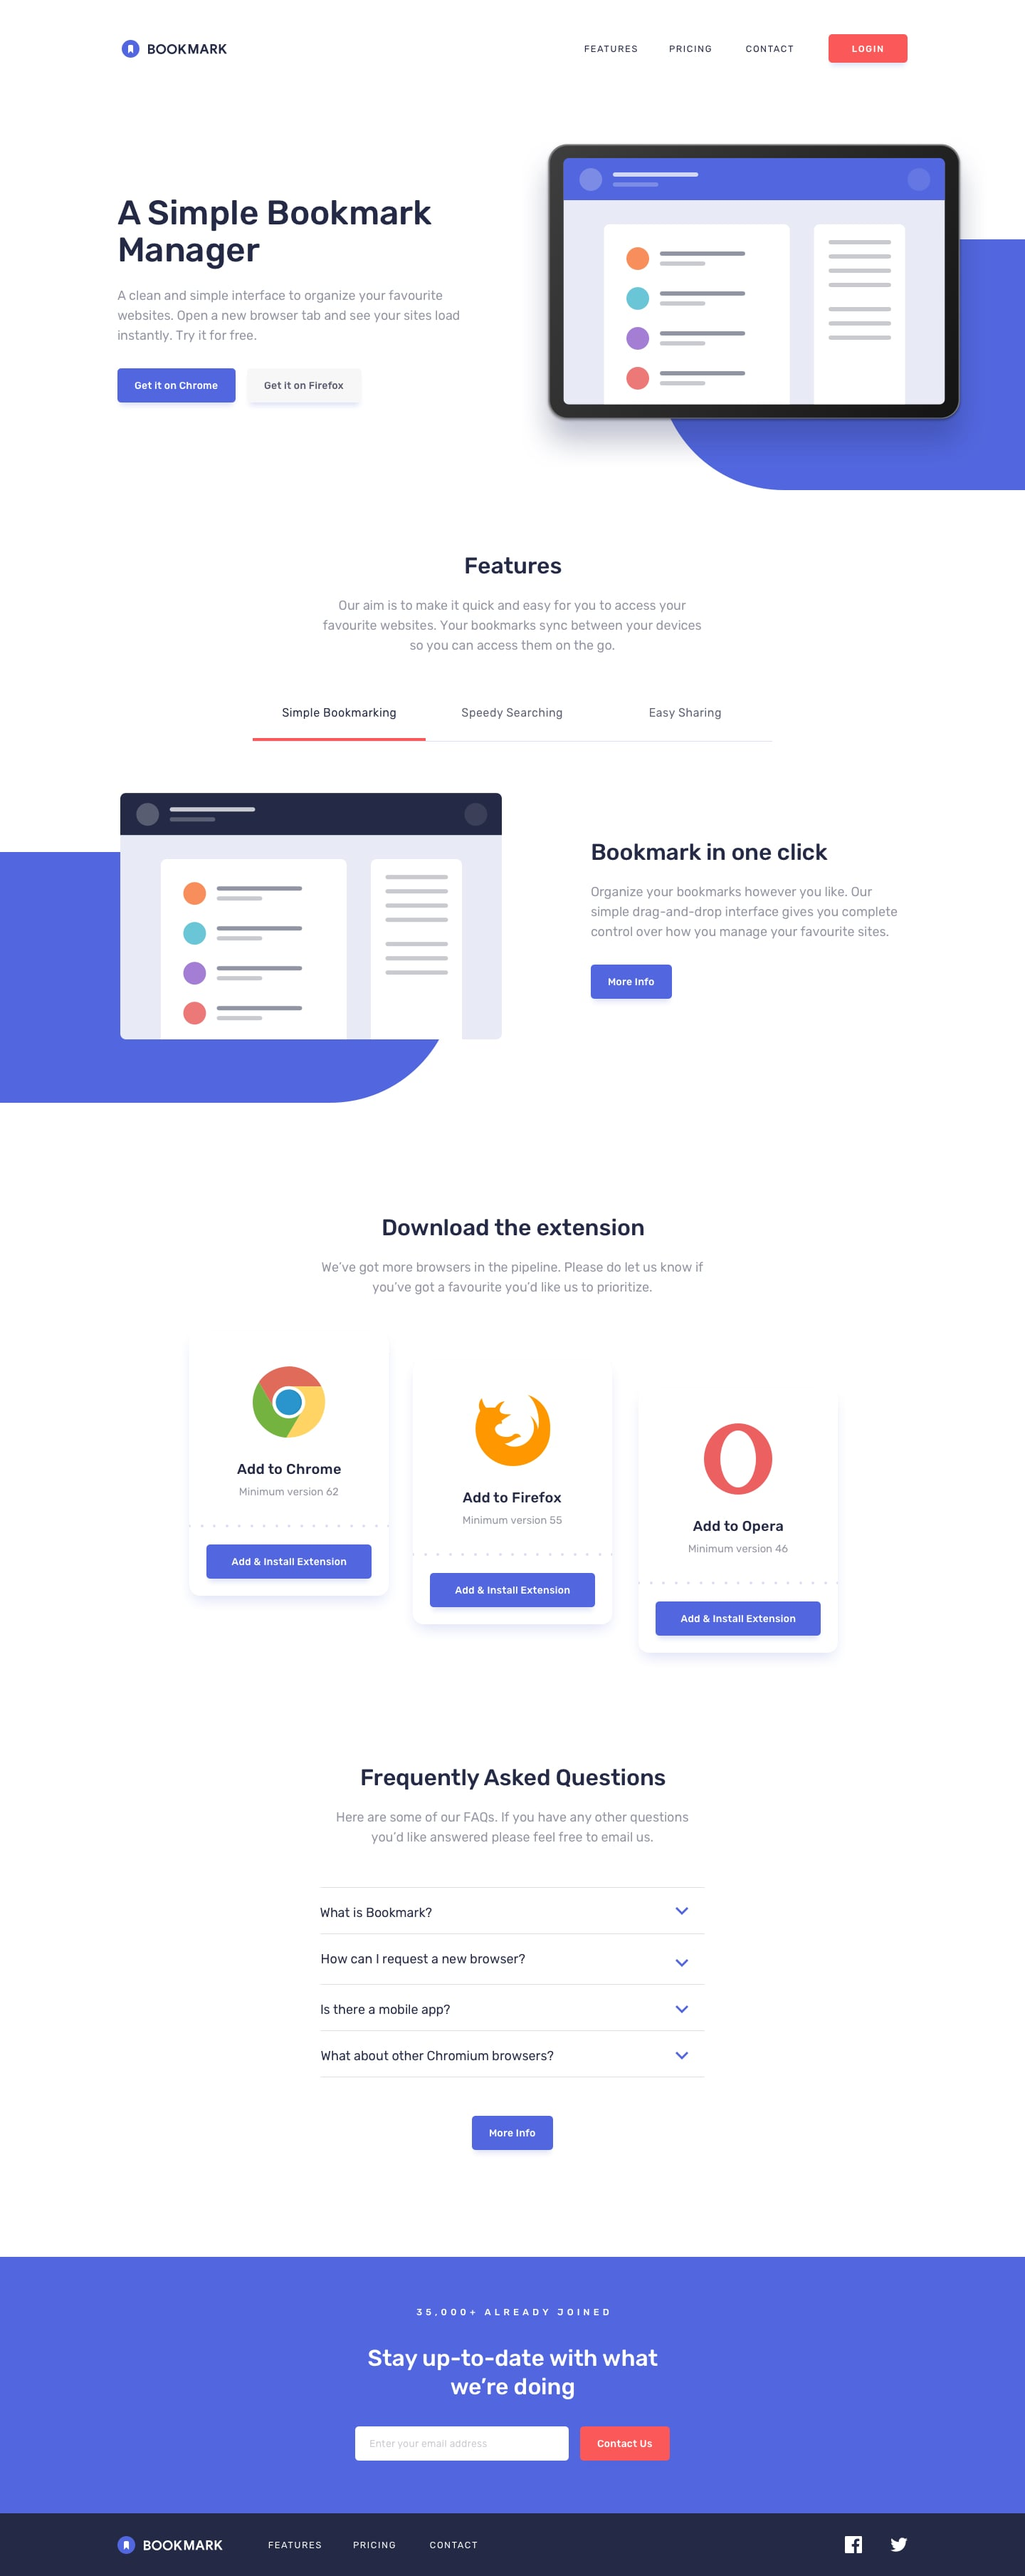
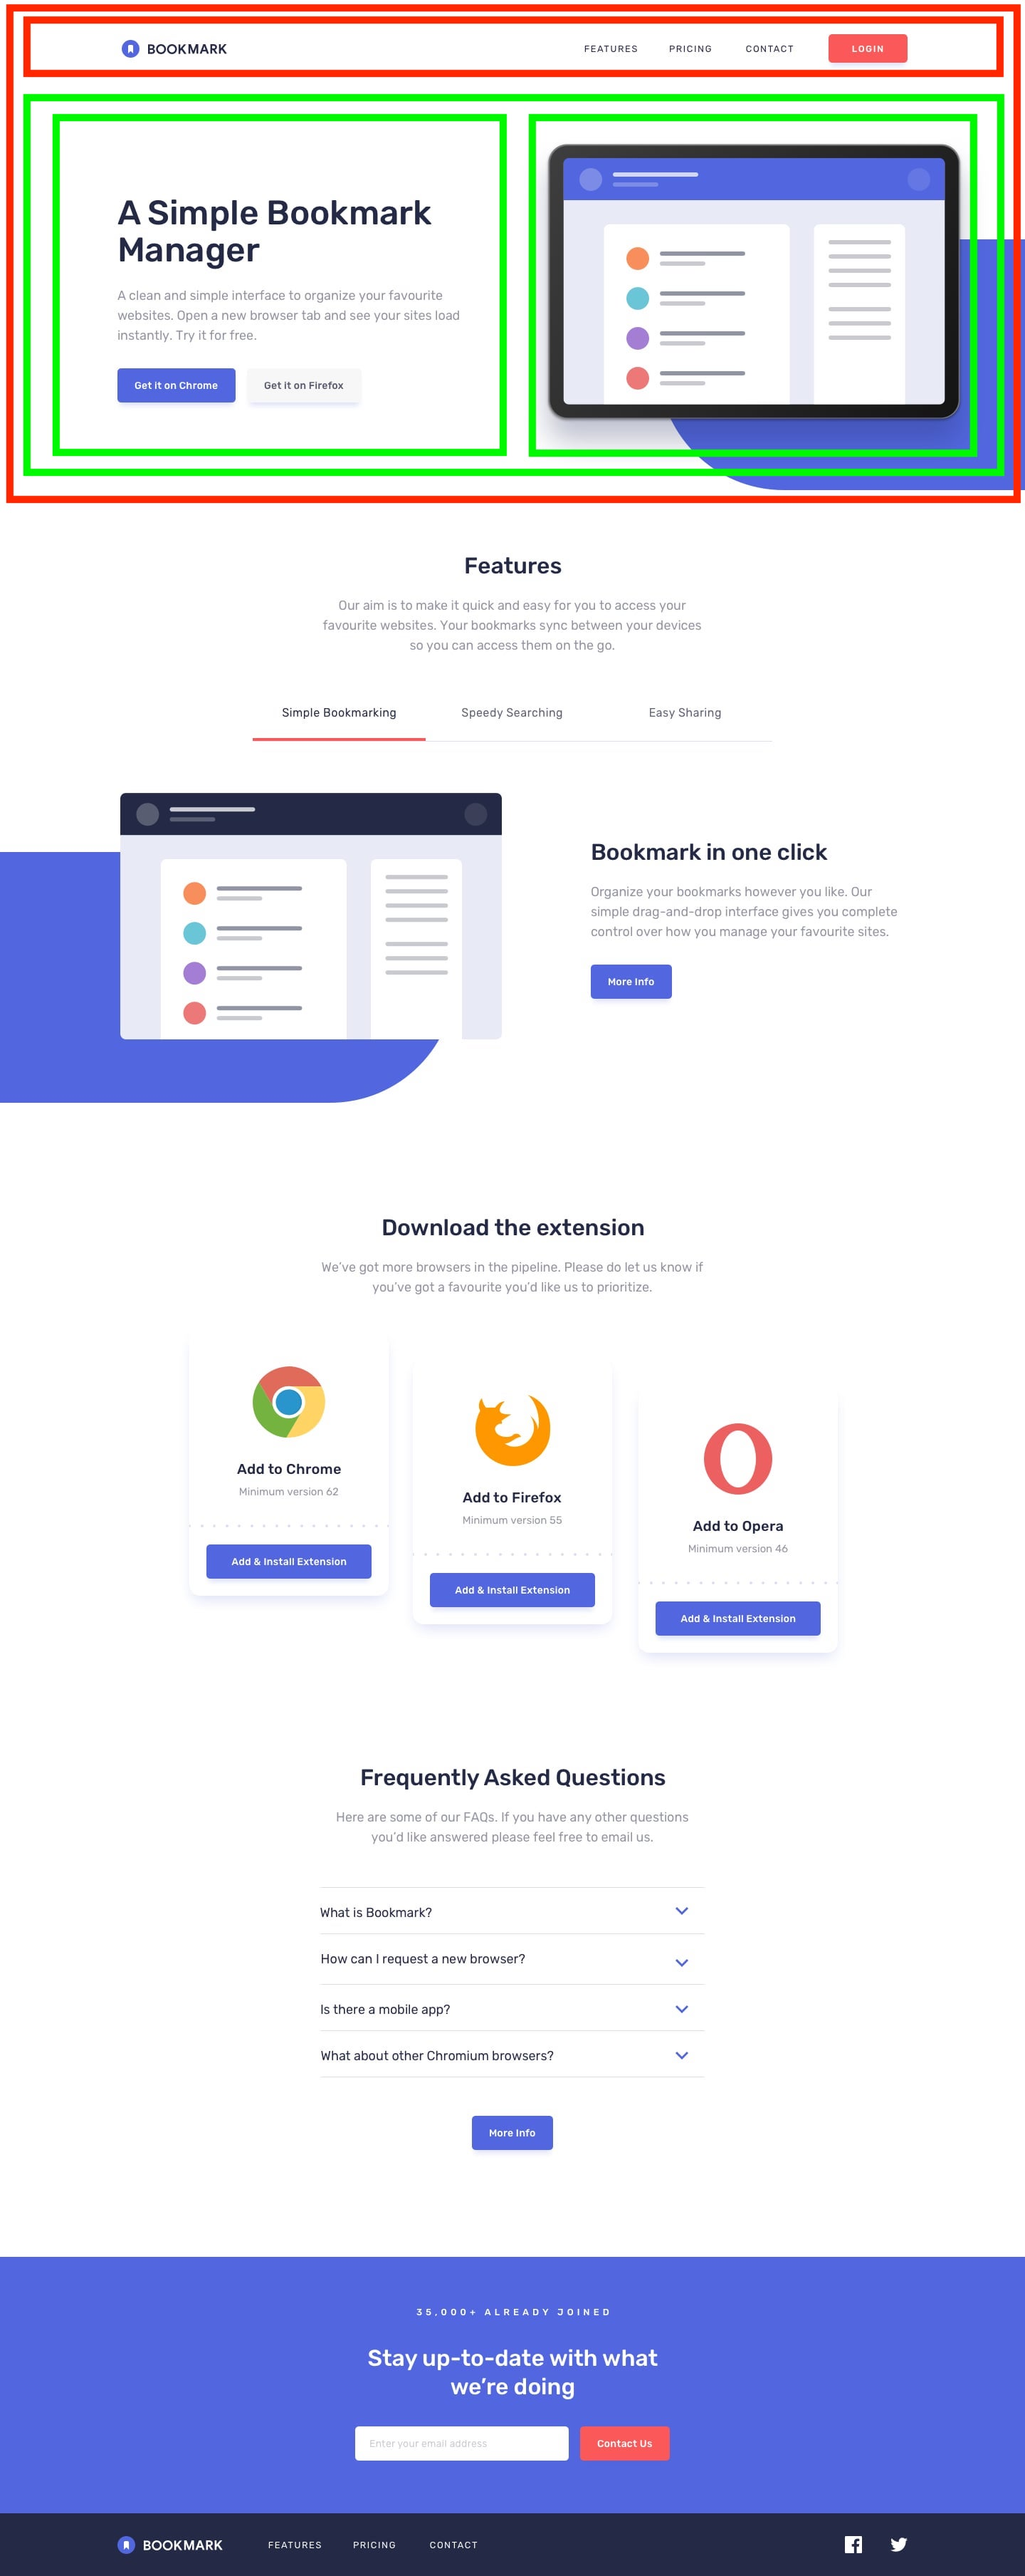
end section home

Changed region(s): [[0.0, 0.0, 1.0, 0.2188]]

diff --git a/index.html b/index.html
@@ -5,23 +5,62 @@
   <meta name="viewport" content="width=device-width, initial-scale=1.0">
   <link rel="icon" type="image/png" sizes="32x32" href="./images/favicon-32x32.png">
   <title>Frontend Mentor | Bookmark landing page</title>
+  <link rel="stylesheet" href="https://fonts.googleapis.com/css2?family=Rubik:wght@400;500&display=swap">
   <link rel="stylesheet" href="https://stackpath.bootstrapcdn.com/bootstrap/4.5.2/css/bootstrap.min.css" integrity="sha384-JcKb8q3iqJ61gNV9KGb8thSsNjpSL0n8PARn9HuZOnIxN0hoP+VmmDGMN5t9UJ0Z" crossorigin="anonymous">
   <link rel="stylesheet" href="./styles/main.css">
 </head>
 <body>
-
-  Features
-  Pricing
-  Contact
-  Login
-
-  A Simple Bookmark Manager
-
-  A clean and simple interface to organize your favourite websites. Open a new 
-  browser tab and see your sites load instantly. Try it for free.
-
-  Get it on Chrome
-  Get it on Firefox
+  <main class="home">
+    <div class="container">
+      <header class="py-4">
+        <nav class="navbar navbar-expand-lg navbar-light">
+          <a href="#" class="navbar-brand"><img src="./images/logo-bookmark.svg" alt="Bookmark"></a>
+          <button class="navbar-toggler" data-toggle="collapse" data-target="#menu" aria-expanded="false">
+            <span class="navbar-toggler-icon"></span>
+          </button>
+          <div class="collapse navbar-collapse" id="menu">
+            <ul class="navbar-nav ml-auto main-menu">
+              <li class="nav-item">
+                <a href="#" class="nav-link">Features</a>
+              </li>
+              <li class="nav-item">
+                <a href="#" class="nav-link">Pricing</a>
+              </li>
+              <li class="nav-item">
+                <a href="#" class="nav-link">Contact</a>
+              </li>
+              <li class="nav-item">
+                <a href="#" class="nav-link active">Login</a>
+              </li>
+            </ul>
+          </div>
+        </nav>
+      </header>
+      <section class="row py-4 home__content">
+        <div class="col-md-12 col-lg-6">
+          <article class="home__content__text">
+            <h1>
+              A Simple Bookmark Manager
+            </h1>
+            <p class="my-4">
+              A clean and simple interface to organize your favourite websites. Open a new 
+              browser tab and see your sites load instantly. Try it for free.
+            </p>     
+            <button class="btn-active">
+              Get it on Chrome
+            </button>
+            <button class="btn-default">
+              Get it on Firefox
+            </button>     
+          </article>
+        </div>
+        <div class="col-md-12 col-lg-6">
+          <img class="img-fluid" src="./images/illustration-hero.svg" alt="illustration-hero">
+        </div>
+      </section>
+    
+    </div>
+  </main>
 
   Features
 

diff --git a/styles/main.css b/styles/main.css
@@ -1,0 +1,97 @@
+:root{
+  /* Layout */
+  --mobile: 375px;
+  --desktop: 1440px;
+
+  /* Colors */
+  --soft-blue: rgb(83, 104, 223);
+  --soft-red: rgb(250, 87, 87);
+  --soft-gray: rgb(218, 218, 218);
+  --gray: rgb(145, 148, 161);
+  --dark: rgb(37, 43, 70);
+  --neutral: white;
+
+  /* Typo */
+  --fs: 18px;
+  --ff: 'Rubik', sans-serif;
+  --w400: 400;
+  --w500: 500;
+}
+body{
+  font-family: var(--ff);
+  font-size: var(--fs);
+  color: var(--dark);
+}
+/* Navigation */
+.navbar-nav{
+  align-items: center;
+}
+.navbar-light .navbar-nav .nav-link{
+  color: var(--dark);
+  margin: 0 0.4rem;
+  text-transform: uppercase;
+  font-family: var(--ff);
+  font-size: 0.8em;
+  padding: 0.5rem;
+  letter-spacing: 2px;
+  transition: all ease 0.2s;
+}
+.navbar-light .navbar-nav .nav-link:hover{
+  color: var(--soft-red);
+}
+.navbar-light .navbar-nav .nav-link.active{
+  background: var(--soft-red);
+  color: var(--neutral);
+  border: 2px solid transparent;
+  border-radius: 0.25rem;
+  padding: 0.5rem 1.7rem;
+  margin-left: 2rem;
+}
+.navbar-light .navbar-nav .nav-link.active:hover{
+  background: transparent;
+  color: var(--soft-red);
+  border: 2px solid var(--soft-red);
+}
+.navbar-toggler{
+  outline: 0 !important;
+}
+
+/* Content Home */
+.home__content__text p{
+  color: var(--gray);
+  font-weight: var(--w400);
+}
+.btn-default{
+  background: var(--soft-gray);
+  color: var(--dark);
+  border: 2px solid transparent !important;
+  padding: 10px 20px;
+  border-radius: 4px;
+  border: 0;
+}
+.btn-default:hover{
+  background: transparent;
+  color: var(--dark);
+  border: 2px solid var(--dark) !important;
+}
+.btn-active{
+  background: var(--soft-blue);
+  color: var(--neutral);
+  border: 2px solid transparent !important;
+  padding: 10px 20px;
+  border-radius: 4px;
+  margin-right: 6px;
+  border: 0;
+}
+.btn-active:hover{
+  background: transparent;
+  color: var(--soft-blue);
+  border: 2px solid var(--soft-blue) !important;
+}
+
+/* Responsive */
+@media screen and (max-width: 991px){
+  .navbar-light .navbar-nav .nav-link.active{
+    margin-left: 0;
+  }
+}
